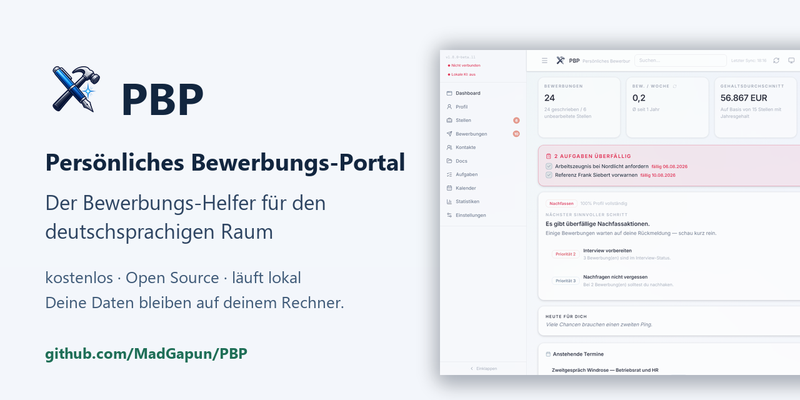
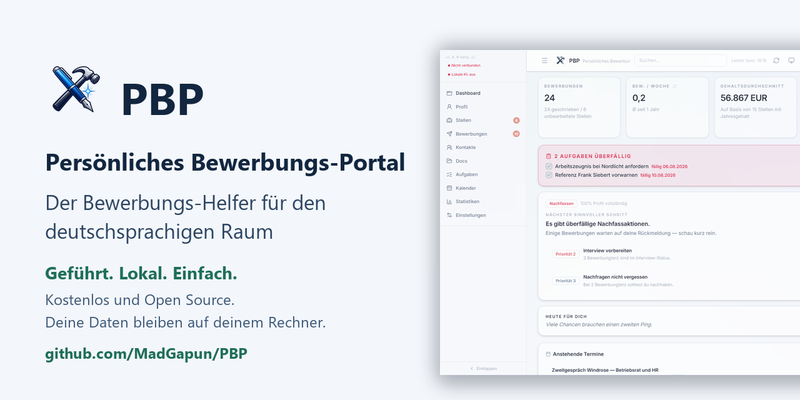
docs: Social Preview final — Dreiklang des Inhabers uebernommen, texte.md auf gewaehlte Varianten (Baustelle 3, #843)

Changed region(s): [[0.0312, 0.66, 0.4375, 0.84]]

diff --git a/docs/assets/make_social_preview.py b/docs/assets/make_social_preview.py
@@ -89,10 +89,12 @@ def main():
     draw.text((72, 300), "Der Bewerbungs-Helfer für den\ndeutschsprachigen Raum",
               font=_font(33), fill="#2e4562", spacing=10)
 
-    draw.text((72, 424), "kostenlos · Open Source · läuft lokal",
-              font=_font(26), fill="#3f5a78")
-    draw.text((72, 464), "Deine Daten bleiben auf deinem Rechner.",
-              font=_font(26), fill="#3f5a78")
+    draw.text((72, 416), "Geführt. Lokal. Einfach.",
+              font=_font(28, bold=True), fill="#1f6f57")
+    draw.text((72, 462), "Kostenlos und Open Source.",
+              font=_font(24), fill="#3f5a78")
+    draw.text((72, 498), "Deine Daten bleiben auf deinem Rechner.",
+              font=_font(24), fill="#3f5a78")
 
     draw.text((72, 548), "github.com/MadGapun/PBP", font=_font(24, bold=True),
               fill="#1f6f57")

diff --git a/docs/assets/texte.md b/docs/assets/texte.md
@@ -12,25 +12,21 @@ zuerst hier ändern, dann die Verwender nachziehen.
 Alles Weitere baut auf diesem Satz auf. Kein Marketing-Sprech, keine
 Superlative, keine Ausrufezeichen.
 
-## Einzeiler
+## Einzeiler (README-Einstieg — Variante D, gewählt in #834)
 
-> Der Bewerbungs-Helfer für den deutschsprachigen Raum — kostenlos,
-> Open Source, läuft lokal. Deine Daten bleiben auf deinem Rechner.
+> PBP ist ein Bewerbungs-Helfer — mit einem entscheidenden Unterschied:
+> die Werkzeuge reden miteinander.
 
-(Verwendet im Social-Preview-Bild. Der README-Einstieg wird nach der
-Varianten-Auswahl in #834 hier festgeschrieben.)
+## Social-Preview-Zeilen
 
-## Repo-Kurzbeschreibung (GitHub „Description")
+> Der Bewerbungs-Helfer für den deutschsprachigen Raum
+> Geführt. Lokal. Einfach.
+> Kostenlos und Open Source. Deine Daten bleiben auf deinem Rechner.
 
-Zwei Varianten, Auswahl liegt beim Projektinhaber (#843):
+(„Geführt. Lokal. Einfach." stammt aus dem ersten Social-Preview-Entwurf
+des Projektinhabers und ist bewusst übernommen.)
 
-**Variante 1 — deutsch zuerst:**
-
-> Lokaler KI-Bewerbungsassistent für den DACH-Arbeitsmarkt —
-> Stellensuche, Bewerbungsverwaltung, CV-Analyse. MCP-Server für
-> Claude Desktop, self-hosted, keine Cloud.
-
-**Variante 2 — englisch zuerst (für die GitHub-Suche):**
+## Repo-Kurzbeschreibung (GitHub „Description" — Variante 2, gewählt und gesetzt am 12.08.2026)
 
 > Local AI job application assistant for the German-speaking job market
 > (DACH) — job search, application tracking, CV analysis. MCP server
